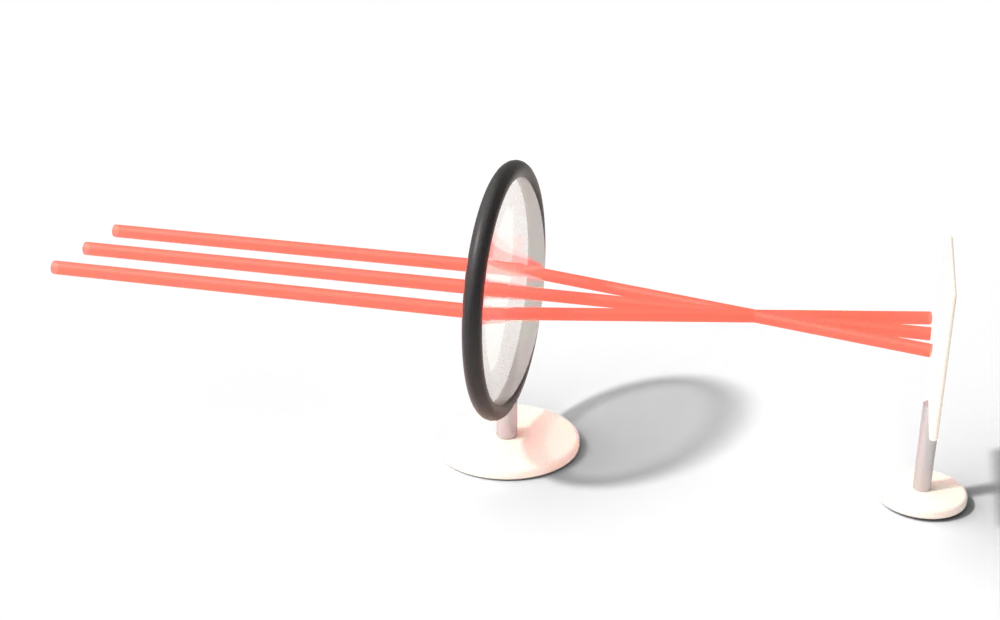
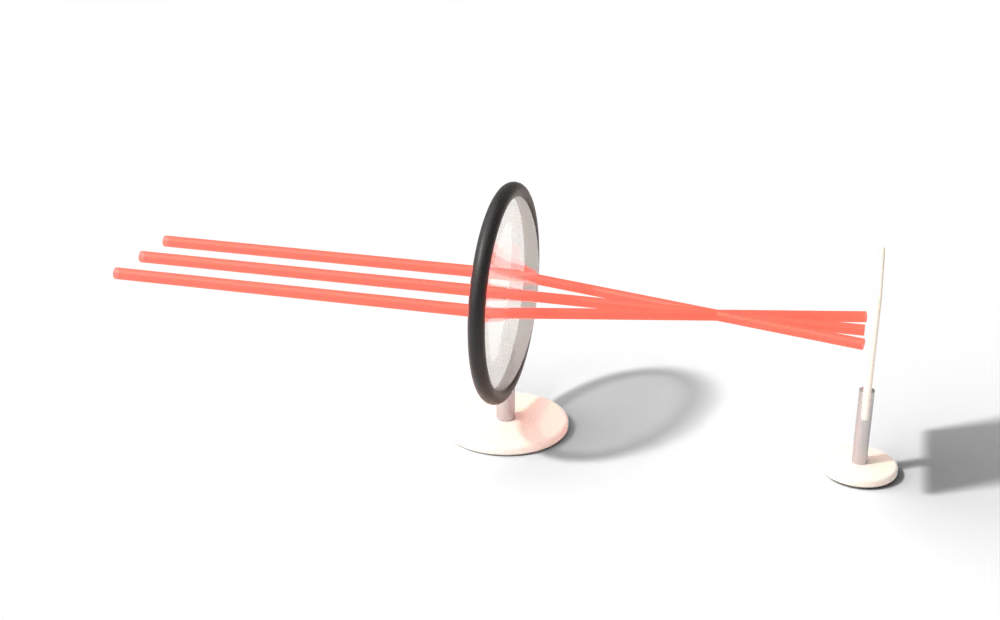
module 00 : vignette re-cadrée (lentille et écran entiers)

Changed region(s): [[0.031, 0.2452, 0.961, 0.7968], [0.837, 0.6129, 1.0, 0.8581]]

diff --git a/blender/lentille.py b/blender/lentille.py
@@ -27,5 +27,5 @@ pied = cyl("pied_ecran", 1.8, zc - 15, (f + 36, 0, (zc - 15) / 2), P["alu"], ver
 base2 = cyl("socle_ecran", 9, 2.2, (f + 36, 0, -1.1), P["plastique_creme"], verts=64, bevel=0.6)
 
 if A["png"]:
-    render(A["png"], view=(0.28, -1.0, 0.42), w=A["w"], h=A["h"], samples=A["samples"], focal=50, margin=0.6,
+    render(A["png"], view=(0.28, -1.0, 0.42), w=A["w"], h=A["h"], samples=A["samples"], focal=50, margin=0.7,
            extra=[(-100, 13, zc), (f + 36, -15, zc)], beam_strength=4.0)
